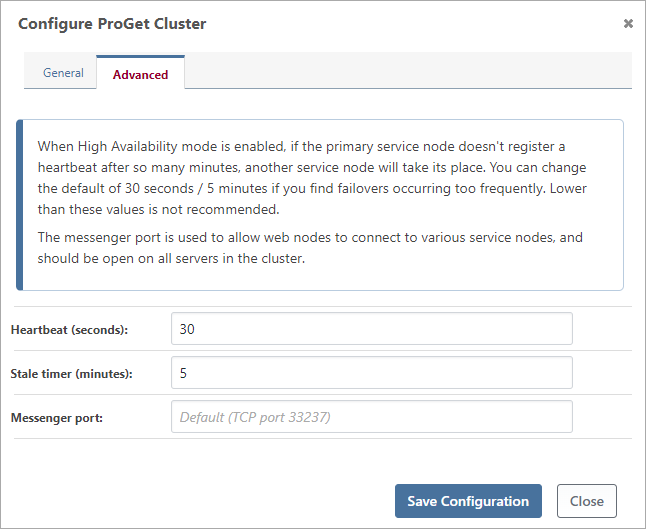
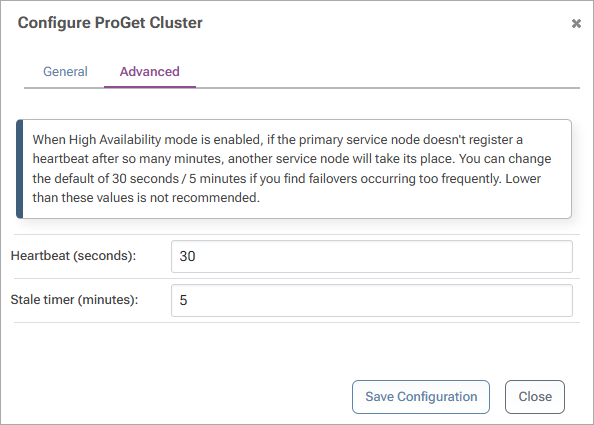
Update for HA Docs

diff --git a/Content/installation/high-availability-load-balancing/high-availability-load-balancing.md b/Content/installation/high-availability-load-balancing/high-availability-load-balancing.md
@@ -18,20 +18,16 @@ High Availability & Load Balancing  requires the following components to be conf
 - Shared Database
 - Inedo Product  (Encryption Key & Settings)
 
-In addition, an open TCP port (we recommend 33237) is recommended to allow for nodes within the cluster to communicate with eachother. 
 
 ### Selecting a Load Balancer
-Your Inedo product is built to be compatible with any load balancing platform, including both software-based (such as HAProxy, NLP, or nginx) and appliance-based (such as F5, A10, Citrix) platforms. Each load balancer can be configured differently, so please consult the manufacturer's documentation for configuring the load balancer to work with IIS.
+Your Inedo product is built to be compatible with any load balancing platform, including both software-based (such as HAProxy, ARR (IIS), or nginx) and appliance-based (such as F5, A10, Citrix) platforms. Each load balancer can be configured differently, so please consult the manufacturer's documentation for configuring the load balancer to work with IIS.
 
 ::: (INFO)
 **Session Affinity (sticky sessions) is not required.** While you can enable this, it may simplify your traffic and load balancer configuration not to use them.
 :::
 
-#### Example:  Microsoft's Network Load Balancer 
-If you are new to load balancing, Microsoft's Network Load Balancing Cluster (NLB) is relatively easy to configure. See [Using Microsoft Network Load Balancing (NLB)](/docs/installation/high-availability-load-balancing/high-availability-load-balancing) for guidance on how to use NLB with Inedo products.
-
 ###  Database Server
-You will need a stand-alone SQL Server that all servers in your clustercan connect to. This could be as simple as SQL Express, but we recommend a database cluster so that there's no single point of failure within your High-availability setup.
+You will need a stand-alone SQL Server that all servers in your cluster can connect to. This could be as simple as SQL Express, but we recommend a database cluster so that there's no single point of failure within your High-availability setup.
 
 Your Inedo product can work with any SQL Server Cluster installation, regardless of the failure detection mechanism and failover policy. SQL Server's Database Mirroring may also be used, but note that Microsoft has deprecated that feature in favor of AlwaysOn Availability Groups.
 
@@ -89,7 +85,7 @@ Clicking on the "Advanced" tab of the configuration will allow you to set additi
 
 ![installation-cluster-configure](/resources/docs/installation-cluster-configure.png){height="" width="50%"}
 
-Note that changing these settings will also require a restart of both the web and service nodes on each server in the cluster.
+Note that changing these settings will also require a restart of both the ProGet service on each server in the cluster.
 
 ### Step 5: Verify Health & Configuration
 Once enabled, the *Indexing Cluster Health* box on the administration page will be shown above the *Service Status* box. Clicking on the *More Info* link will display the Indexing Cluster Status page. On this page, you can see the status of every server in your cluster.
@@ -98,38 +94,5 @@ If a server is no longer in your cluster, you may delete it by clicking the appr
 
 For troubleshooting tips, see [Managing your Cluster](/docs/installation/high-availability-load-balancing/installation-cluster-management).
 
-
-## Configuring Version 2022
-This guide was written for Inedo products versioned 2023 and newer. If you're using ProGet 2022, BuildMaster 2022, or Otter 2022, you'll need to take a few different steps.
-
-### Enabling in Product (Step 4)
-You'll need to enable Load Balancing and High Availability prior to seeing the Cluster Overview page in the administration section. To do this:
-1. click on the **Configure Load Balancing** link on your Inedo product’s administration page, then click on the **Enable Load Balancing** button
-2. click on the **Configure High Availability Mode** link on the software’s administration page, and then click on the **Enable High Availability Mode** button.
-
-### Configure Service Messenger (Step 4)
-You'll also need to configure the "service messenger", which is used to allow nodes within the cluster to communicate directly with each other. It's not a critical component, and when it's not available, information in the Web UI may be delayed by a few seconds to a minute.
-
-We recommend using port `33237` for this messenger. To configure this port:
-
-1. Set the `Service.MessengerEndpoint` configuration value (Admin > Advanced Settings) to `tcp://*:33237`
-2. Click the `[change]` button next to each service node, and enter `tcp://«node-ip-address»:33237`, where `«node-ip-address»` is the IP Address of the service displayed on the page
-
-Then, restart the service and all web nodes.
-
-### ProGet 5.3 and Earlier
-ProGet 5.3 and earlier required thata common "machine key" was configured on each server.  See [Microsoft's documentation](https://msdn.microsoft.com/library/w8h3skw9(v=vs.100).aspx) for how to configure this in your web.config or machine.config files.
-
-Machine keys can also be configured within the IIS Manager. To do this:
-- On the first server, select the ProGet website
-  - Double click Machine Key
-    - Use validation method SHA1 and Auto Encryption method
-    - Deselect any check boxes 
-    - Click _Generate Keys_
-    - Click _Apply_ on the right panel; this will update the web.config with a machine key
-- On the remaining servers, select the ProGet website
-  - Double click Machine Key
-    - Use validation method SHA1 and Auto Encryption method
-    - Deselect any check boxes 
-    - Enter the _Validation key_ and _Decryption key_ that was generated on the first server
-    - Click _Apply_ on the right panel; this will update the web.config with a machine key
+## Versions 2024 and Earlier
+This guide was written for Inedo products versioned 2025 and newer. See the [previous version of this guide (github.com)](https://github.com/Inedo/inedo-docs/blob/c82fd2881e2f1d0c36e77bc8b8b48e2a2c7b75a9/Content/installation/high-availability-load-balancing/high-availability-load-balancing.md) for steps required for earlier versions.
